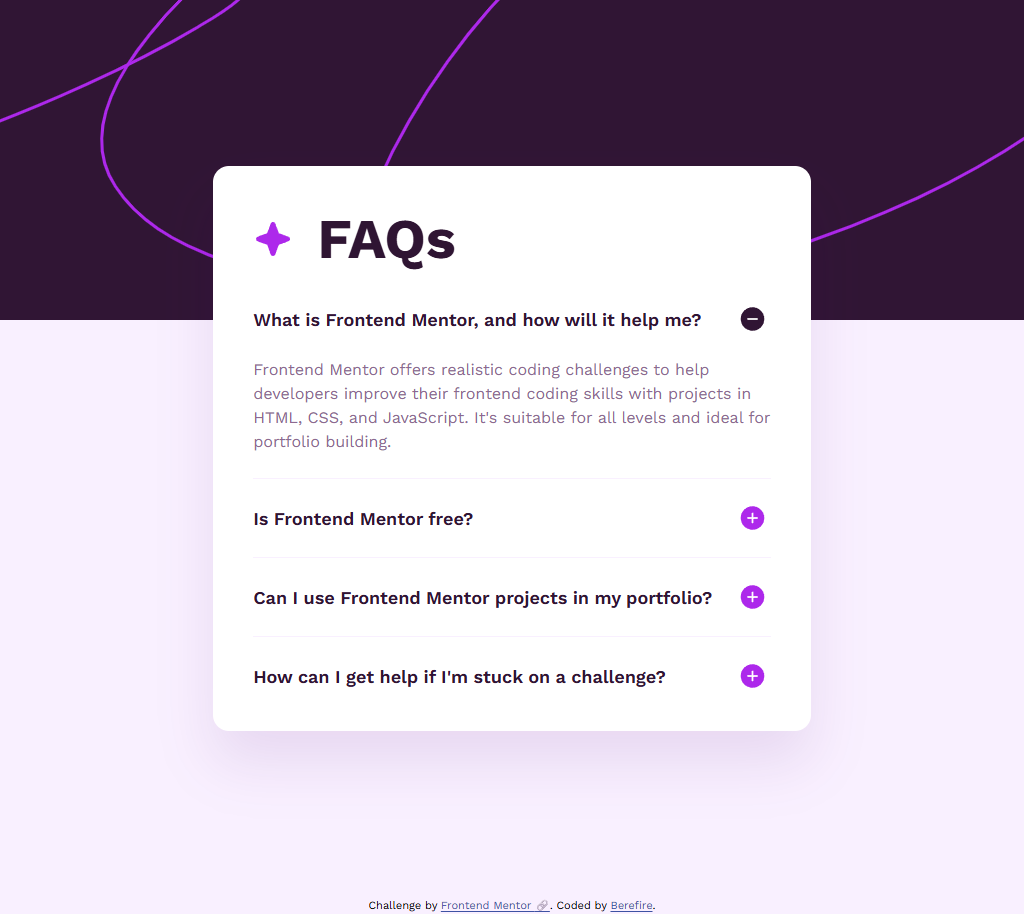
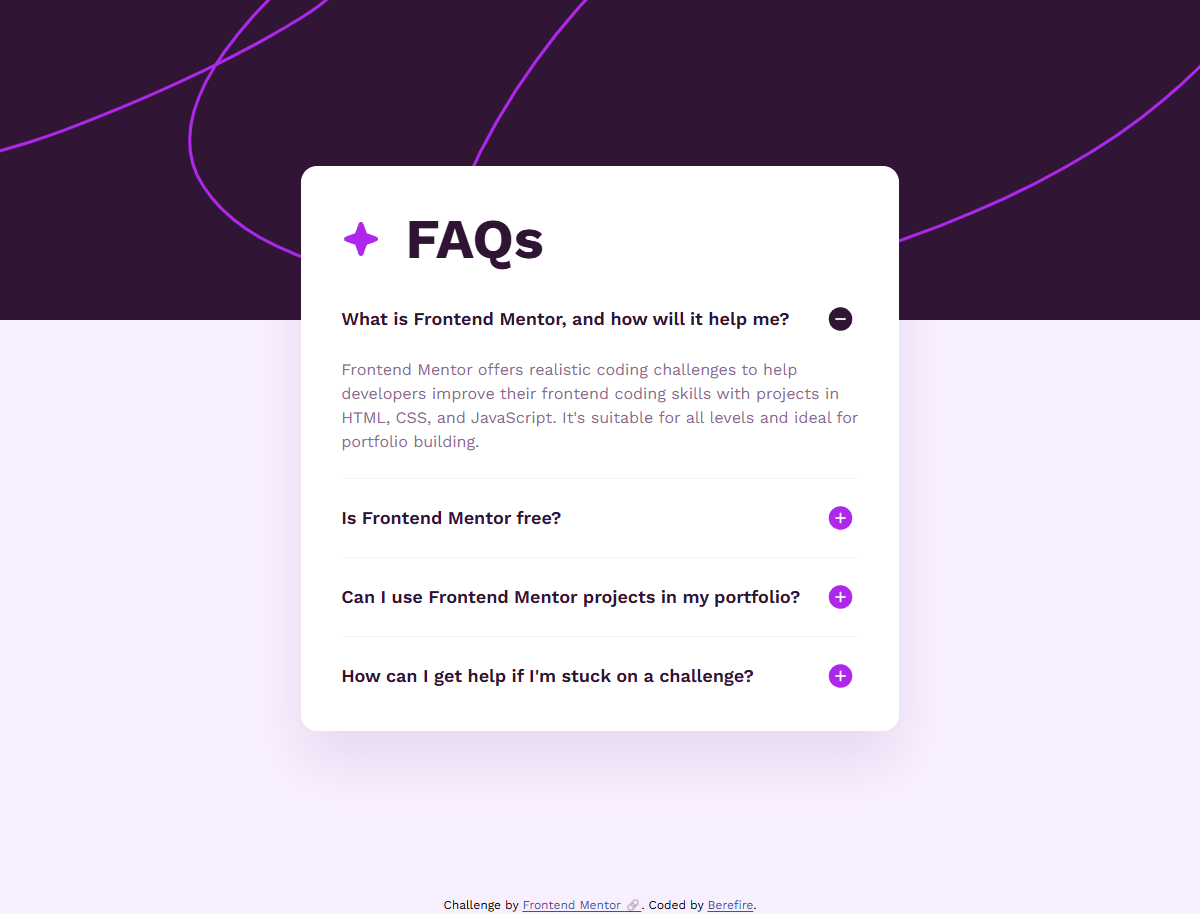
feat: update Open Graph title for clarity and replace og-image.png

diff --git a/index.html b/index.html
@@ -12,7 +12,7 @@
   <meta name="keywords" content="Berefire, Frontend Mentor, FAQ Accordion, HTML, CSS, JavaScript, Accessibility, Responsive Design">
 
   <!-- OG Tags -->
-  <meta property="og:title" content="Berefire | Accessible FAQ Accordion Solution">
+  <meta property="og:title" content="Berefire | Frontend Mentor Accessible FAQ Accordion Solution">
   <meta property="og:description" content="Accessible FAQ accordion solution built with semantic HTML, modern CSS, responsive layouts, and smooth interactive animations.">
   <meta property="og:image" content="https://berefire.github.io/faq-accordion/og-image.png">
   <meta property="og:url" content="https://berefire.github.io/faq-accordion/">
@@ -21,7 +21,7 @@
 
   <link rel="icon" type="image/png" sizes="32x32" href="/assets/images/favicon-32x32.png">
 
-  <title>Berefire | Accessible FAQ Accordion Solution</title>
+  <title>Berefire | Frontend Mentor Accessible FAQ Accordion Solution</title>
 
   <script defer type="module" src="./src/js/main.js"></script>
 </head>